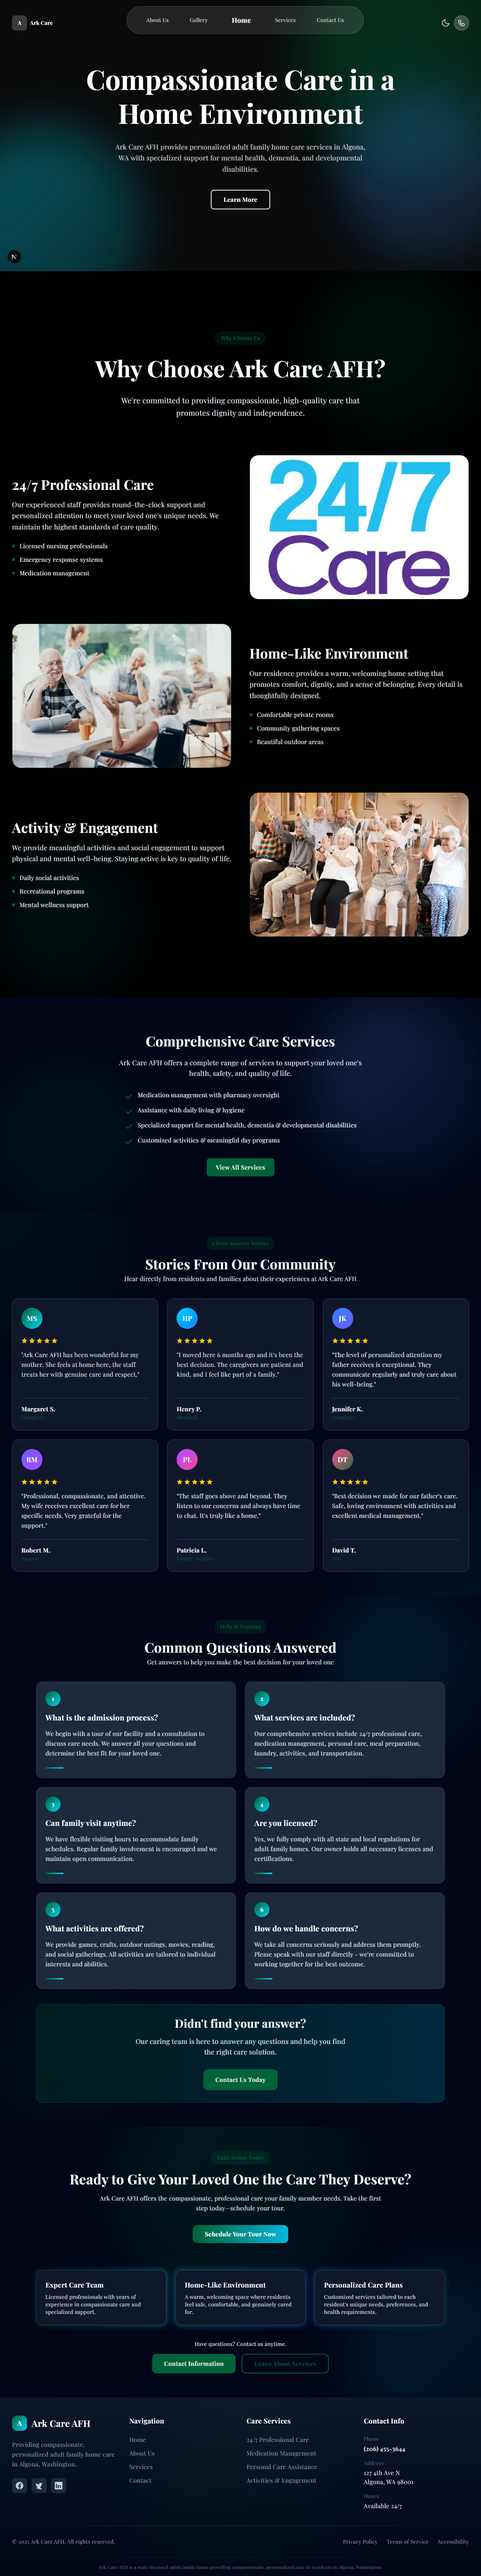
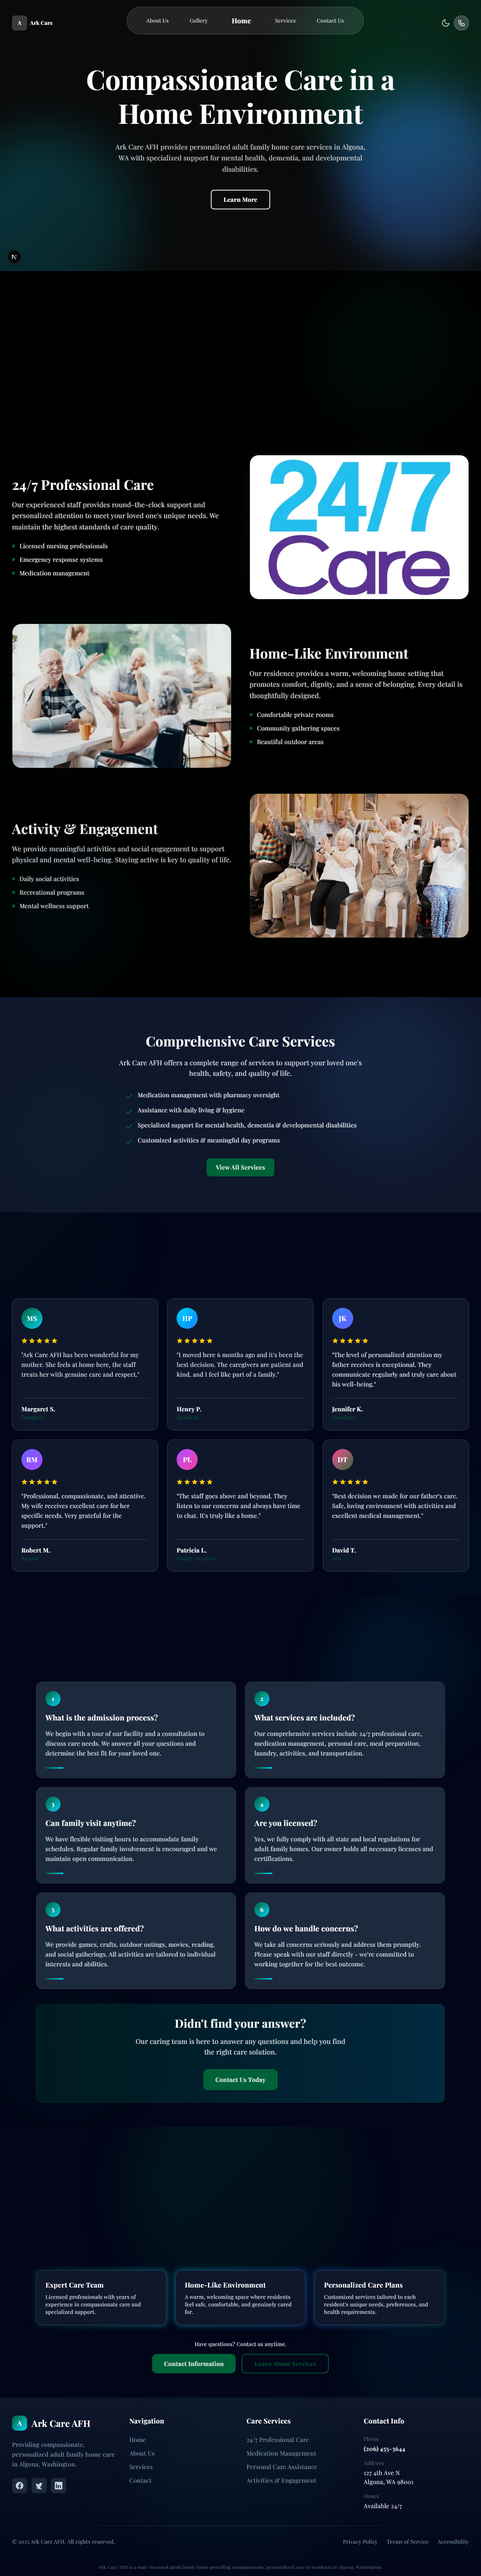
Make dark mode backgrounds consistent across Why Choose and Comprehensive Care sections
Changed Comprehensive Care Services section background from dark:bg-slate-950 to dark:bg-slate-900 to match the Why Choose Ark Care section. This ensures both sections have the exact same dark background color in dark mode for visual consistency.

🤖 Generated with Claude Code

diff --git a/ark-care-afh/src/app/page.tsx b/ark-care-afh/src/app/page.tsx
@@ -245,7 +245,7 @@ export default function Home() {
       </section>
 
       {/* Services Overview Section */}
-      <section className="relative py-16 md:py-24 bg-white dark:bg-slate-950 overflow-hidden">
+      <section className="relative py-16 md:py-24 bg-white dark:bg-slate-900 overflow-hidden">
         {/* Animated Background Orbs */}
         <div className="absolute top-0 right-0 w-[450px] h-[450px] bg-gradient-to-br from-blue-400/25 to-blue-500/10 rounded-full blur-3xl animate-pulse-glow pointer-events-none z-0" style={{animationDelay: '0.4s'}} />
         <div className="absolute bottom-0 left-0 w-[380px] h-[380px] bg-gradient-to-br from-primary/25 to-primary/10 rounded-full blur-3xl animate-pulse-glow pointer-events-none z-0" style={{animationDelay: '0.9s'}} />
